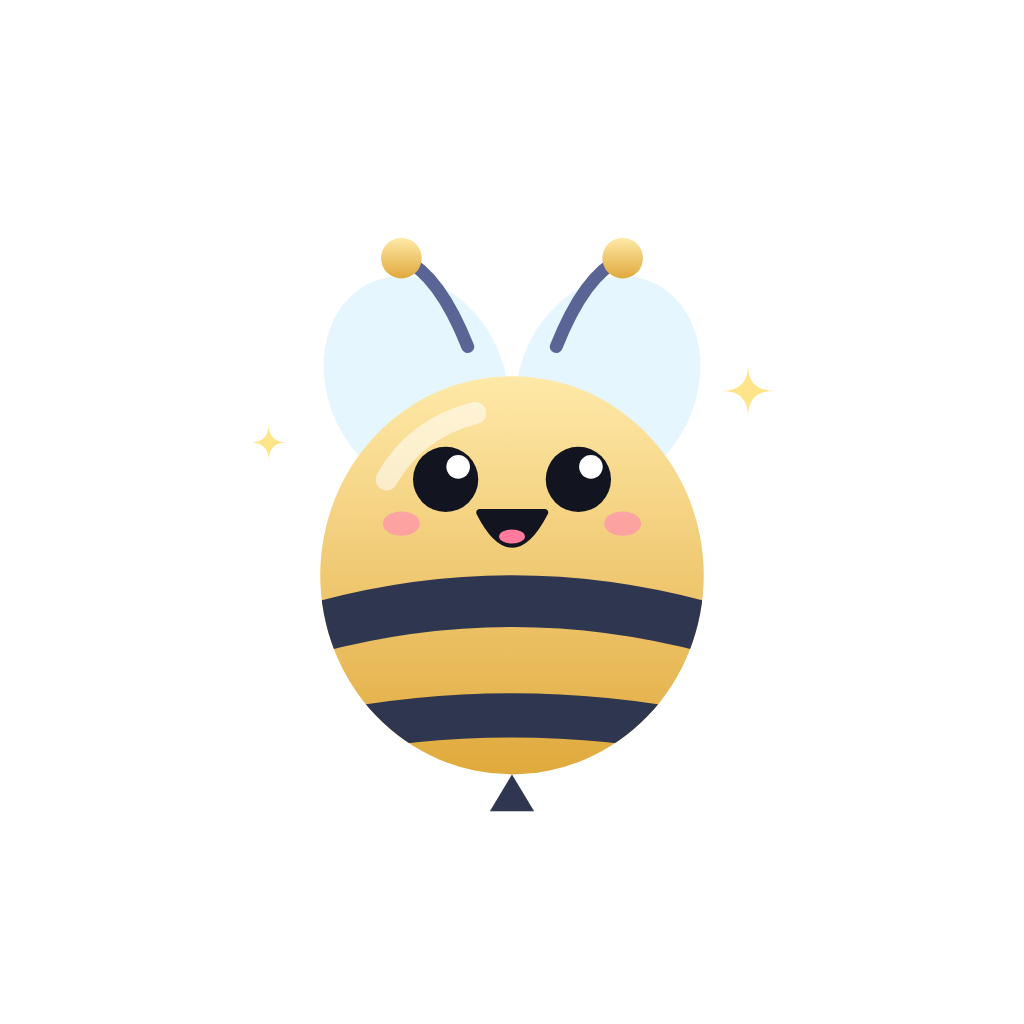
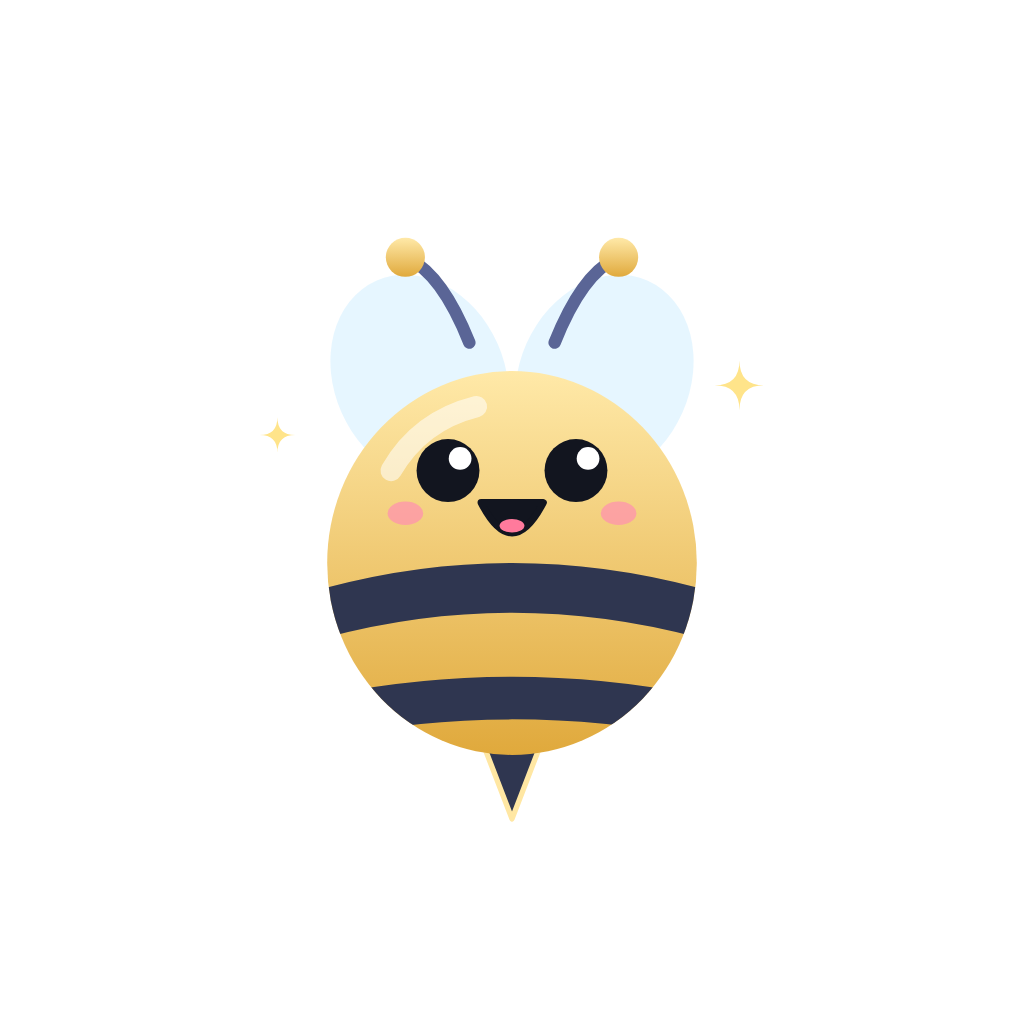
Picks of 1 Nov: level-up after all done, eager Bizzy, lucky ring, new stinger, profile wave spot
- 1A: when the last task of the day also levels you up, Bizzy's all-done
  moment (and a perfect-day card) plays first and the level-up follows.
- 2C: when Bizzy can evolve he glows gold, hops now and then and shows a
  "!" badge; the Evolve button pulses more strongly.
- 3A: the lucky meter is a gold ring that fills with every spin, the spins
  left in the middle, "to jackpot" next to it.
- 4A: the stinger is a clear cone pointing down from behind the body, with
  a thin light rim, in every form; the app icons are regenerated.
- 5B: on the profile Bizzy waves from beside the picture, away from the
  badge; his loop, pill and trophy animations stay.

Claude-Session: https://claude.ai/code/session_01MbaCg3u5W9LSttd2vTBsD6

diff --git a/src/components/StreakCard.tsx b/src/components/StreakCard.tsx
@@ -1,5 +1,6 @@
-import { useEffect, useRef, useState, type Ref } from 'react';
+import { useEffect, useRef, useState, type ReactNode, type Ref } from 'react';
 import { Pressable, Text, View, type HostInstance } from 'react-native';
+import Svg, { Circle, Defs, RadialGradient, Stop } from 'react-native-svg';
 import Animated, { Easing, FadeIn, FadeOut, LinearTransition, useAnimatedStyle, useReducedMotion, useSharedValue, withRepeat, withSequence, withTiming } from 'react-native-reanimated';
 import { nextBizzyForm, type BizzyMood } from '../bizzy';
 import type { Line, TalkContext } from '../bizzyTalk';
@@ -108,7 +109,9 @@ export function StreakCard({
           {bizzy && (
             <View style={s.corner}>
               <View ref={bizzy.spotRef} style={{ opacity: bizzy.away ? 0 : 1 }}>
-                <TapBizzy mood={bizzy.mood} cheer={bizzy.cheer} size={68} look={[-2, 1]} talk={bizzy.talk} onSay={say} taps={bizzy.taps} onTap={bizzy.onTap} />
+                <Eager on={canEvolve(bizzy.form, bizzy.level)}>
+                  <TapBizzy mood={bizzy.mood} cheer={bizzy.cheer} size={68} look={[-2, 1]} talk={bizzy.talk} onSay={say} taps={bizzy.taps} onTap={bizzy.onTap} />
+                </Eager>
               </View>
               <EvolveNext form={bizzy.form} level={bizzy.level} onEvolve={bizzy.onEvolve} />
             </View>
@@ -148,7 +151,57 @@ export function StreakCard({
   );
 }
 
-/** Under Bizzy: Evolve (gently pulsing) when his next form's level is reached, else the level it needs; nothing once he is the Queen. */
+function canEvolve(form: number, level: number): boolean {
+  const next = nextBizzyForm(form);
+  return !!next && level >= next.level;
+}
+
+/**
+ * Bizzy can't wait to evolve (picked 2026-11-01, 2C): he glows gold and hops now and
+ * then, with a "!" badge, while the Evolve button under him pulses.
+ */
+function Eager({ on, children }: { on: boolean; children: ReactNode }) {
+  const s = useStyles(makeStyles);
+  const reduce = useReducedMotion();
+  const hop = useSharedValue(0);
+  const beat = useSharedValue(0);
+  useEffect(() => {
+    if (!on || reduce) {
+      hop.value = withTiming(0, { duration: 200 });
+      beat.value = 0;
+      return;
+    }
+    hop.value = withRepeat(withSequence(withTiming(1, { duration: 260, easing: Easing.out(Easing.quad) }), withTiming(0, { duration: 260, easing: Easing.in(Easing.quad) }), withTiming(0, { duration: 900 })), -1);
+    beat.value = withRepeat(withSequence(withTiming(1, { duration: 700, easing: Easing.inOut(Easing.sin) }), withTiming(0, { duration: 700, easing: Easing.inOut(Easing.sin) })), -1);
+  }, [on, reduce]);
+  const hopStyle = useAnimatedStyle(() => ({ transform: [{ translateY: -10 * hop.value }, { rotate: `${-6 * hop.value}deg` }] }));
+  const glowStyle = useAnimatedStyle(() => ({ opacity: 0.55 + 0.45 * beat.value, transform: [{ scale: 0.9 + 0.15 * beat.value }] }));
+  const badgeStyle = useAnimatedStyle(() => ({ transform: [{ scale: 1 + 0.25 * beat.value }] }));
+  if (!on) return <>{children}</>;
+  return (
+    <View>
+      <Animated.View pointerEvents="none" style={[s.eagerGlow, glowStyle]}>
+        {/* A soft gold light behind him, fading out to nothing. */}
+        <Svg width="100%" height="100%" viewBox="0 0 100 100">
+          <Defs>
+            <RadialGradient id="eagerGlow" cx="50" cy="62" r="40" gradientUnits="userSpaceOnUse">
+              <Stop offset="0" stopColor="#FFE48A" stopOpacity={0.85} />
+              <Stop offset="0.45" stopColor="#FFC94D" stopOpacity={0.35} />
+              <Stop offset="1" stopColor="#FFC94D" stopOpacity={0} />
+            </RadialGradient>
+          </Defs>
+          <Circle cx={50} cy={62} r={40} fill="url(#eagerGlow)" />
+        </Svg>
+      </Animated.View>
+      <Animated.View style={hopStyle}>{children}</Animated.View>
+      <Animated.View pointerEvents="none" style={[s.eagerBadge, badgeStyle]}>
+        <Text style={s.eagerBang}>!</Text>
+      </Animated.View>
+    </View>
+  );
+}
+
+/** Under Bizzy: Evolve (pulsing, with a gold ring on each beat) when his next form's level is reached, else the level it needs; nothing once he is the Queen. */
 function EvolveNext({ form, level, onEvolve }: { form: number; level: number; onEvolve: () => void }) {
   const s = useStyles(makeStyles);
   const next = nextBizzyForm(form);
@@ -158,7 +211,7 @@ function EvolveNext({ form, level, onEvolve }: { form: number; level: number; on
   useEffect(() => {
     pulse.value = ready && !reduce ? withRepeat(withSequence(withTiming(1, { duration: 700, easing: Easing.inOut(Easing.sin) }), withTiming(0, { duration: 700, easing: Easing.inOut(Easing.sin) })), -1) : 0;
   }, [ready, reduce]);
-  const style = useAnimatedStyle(() => ({ transform: [{ scale: 1 + 0.06 * pulse.value }], boxShadow: `0px 0px ${4 + 8 * pulse.value}px rgba(255,201,77,${0.35 + 0.35 * pulse.value})` }));
+  const style = useAnimatedStyle(() => ({ transform: [{ scale: 1 + 0.1 * pulse.value }], boxShadow: `0px 0px ${6 + 12 * pulse.value}px rgba(255,201,77,${0.45 + 0.45 * pulse.value})` }));
   if (!next) return <Text style={s.evolveWait}>{t('Fully grown')}</Text>;
   if (!ready) return <Text style={s.evolveWait}>{t('Reach level {n} to evolve', { n: next.level })}</Text>;
   return (
@@ -238,6 +291,9 @@ const makeStyles = themed((c) => ({
   card: { ...card(c), borderWidth: 0, borderRadius: c.radius, paddingVertical: 14, paddingHorizontal: 16, gap: 10 },
   row: { flexDirection: 'row', alignItems: 'center', gap: 12 },
   corner: { minWidth: 84, maxWidth: 104, alignItems: 'center', gap: 2 },
+  eagerGlow: { position: 'absolute', left: -6, right: -6, top: -6, bottom: -6 },
+  eagerBadge: { position: 'absolute', top: -2, right: -4, width: 20, height: 20, borderRadius: 10, backgroundColor: '#FFC94D', alignItems: 'center', justifyContent: 'center', borderWidth: 2, borderColor: c.surface },
+  eagerBang: { fontFamily: VIVID_HEAVY, fontSize: 12, lineHeight: 14, color: '#2A1A05' },
   // Honey gold, the same in every theme: evolving belongs to the rewards layer.
   evolve: { borderRadius: 999, backgroundColor: '#FFC94D', backgroundImage: 'linear-gradient(90deg, #FFE48A, #FFB347)' },
   evolveTap: { paddingHorizontal: 12, paddingVertical: 5 },

diff --git a/src/screens/SpinScreen.tsx b/src/screens/SpinScreen.tsx
@@ -371,12 +371,12 @@ export function SpinScreen({
                 onHoverIn={() => setLuckyTip(true)}
                 onHoverOut={() => setLuckyTip(false)}
                 hitSlop={8}
-                style={[s.chip, s.chipBottomRight]}
+                style={[s.chip, s.chipBottomRight, s.luckyChip]}
                 accessibilityRole="button"
                 accessibilityLabel={pity <= 1 ? t('Lucky meter: your next spin wins Fortuna for sure.') : t('Lucky meter: {n} spins left until Fortuna is guaranteed.', { n: pity })}
               >
-                <Star4 size={11} color={GOLD.mid} />
-                <Text style={s.chipText}>{pity <= 1 ? t('Jackpot next spin') : tn(pity, '{n} spin to jackpot', '{n} spins to jackpot')}</Text>
+                <LuckyRing left={pity} />
+                <Text style={s.luckyLabel}>{pity <= 1 ? t('next spin!') : t('to jackpot')}</Text>
               </Pressable>
             </>
           )}
@@ -1029,6 +1029,31 @@ function ThemePreview() {
   );
 }
 
+/**
+ * The lucky meter as a gold ring that fills with every spin, the spins left in
+ * the middle (picked 2026-11-01, 3A); a star once the next spin is the jackpot.
+ */
+function LuckyRing({ left }: { left: number }) {
+  const r = 14;
+  const round = 2 * Math.PI * r;
+  const filled = Math.min(1, Math.max(0, (PITY_SPINS - left) / PITY_SPINS));
+  return (
+    <View style={{ width: 34, height: 34, alignItems: 'center', justifyContent: 'center' }}>
+      <Svg width={34} height={34} viewBox="0 0 34 34" style={StyleSheet.absoluteFill}>
+        <Defs>
+          <LinearGradient id="luckyRing" x1="0" y1="0" x2="1" y2="1">
+            <Stop offset="0" stopColor={GOLD.bright} />
+            <Stop offset="1" stopColor={GOLD.mid} />
+          </LinearGradient>
+        </Defs>
+        <Circle cx={17} cy={17} r={r} stroke="rgba(255,255,255,0.12)" strokeWidth={3.5} fill="none" />
+        <Circle cx={17} cy={17} r={r} stroke="url(#luckyRing)" strokeWidth={3.5} fill="none" strokeLinecap="round" strokeDasharray={`${round * (left <= 1 ? 1 : filled)} ${round}`} transform="rotate(-90 17 17)" />
+      </Svg>
+      {left <= 1 ? <Star4 size={13} color={GOLD.bright} /> : <Text style={{ color: GOLD.bright, fontFamily: VIVID_HEAVY, fontSize: left >= 100 ? 10 : 12, fontVariant: ['tabular-nums'] }}>{left}</Text>}
+    </View>
+  );
+}
+
 const makeStyles = themed((c) => ({
   screen: { flex: 1, backgroundColor: c.bg },
   content: { paddingHorizontal: 20, paddingTop: 12, paddingBottom: 48, maxWidth: 640, width: '100%', alignSelf: 'center', alignItems: 'stretch' },
@@ -1042,6 +1067,8 @@ const makeStyles = themed((c) => ({
   chipTopRight: { right: 0, top: 0 },
   chipBottomLeft: { left: 0, bottom: 0 },
   chipBottomRight: { right: 0, bottom: 0 },
+  luckyChip: { height: 44, paddingLeft: 5, paddingRight: 11, borderRadius: 22, gap: 7 },
+  luckyLabel: { ...eyebrow(c, 10), color: c.muted, fontWeight: '800' },
   luckyTip: { position: 'absolute', right: 0, bottom: 38, maxWidth: 220, padding: 10, borderRadius: 10, backgroundColor: c.surface, borderWidth: 1, borderColor: c.dark ? 'rgba(242,197,92,0.45)' : c.border, zIndex: 5, boxShadow: '0px 6px 18px rgba(0,0,0,0.35)' },
   luckyTipText: { color: c.text, fontSize: 12, lineHeight: 16 },
   chipText: { color: c.text, fontSize: 12, fontWeight: '800', fontVariant: ['tabular-nums'] },

diff --git a/App.tsx b/App.tsx
@@ -211,6 +211,23 @@ function Succedo() {
   const [comboShown, setComboShown] = useState({ count: 0, play: 0 });
   /** A level-up or moment pop-up is open or waiting; the review pop-up never shows on top of one. */
   const celebrationOpen = useRef(false);
+  /** Today plays a big moment (all done, morning hello); a level-up waits for it to end. */
+  const todayBusy = useRef(false);
+  const heldLevelUp = useRef<(() => void) | null>(null);
+  /** The level-up that waited comes in once Today's moment and any pop-ups before it (a perfect day) are done. */
+  const momentsOpen = useRef(false);
+  momentsOpen.current = moments.length > 0;
+  function releaseLevelUp() {
+    setTimeout(() => {
+      const show = heldLevelUp.current;
+      if (!show || todayBusy.current || momentsOpen.current) return;
+      heldLevelUp.current = null;
+      show();
+    }, 350);
+  }
+  useEffect(() => {
+    if (!moments.length) releaseLevelUp();
+  }, [moments.length]);
   celebrationOpen.current = !!celebration || moments.length > 0;
   const bestLevel = useRef<number | null>(null);
   // Theme whose fonts are loaded and which is on screen; a newly picked theme
@@ -506,15 +523,17 @@ function Succedo() {
       const from = bestLevel.current;
       bestLevel.current = after.level;
       const milestone = LEVEL_MILESTONES.filter((m) => m.level > from && m.level <= after.level).at(-1);
-      // After the XP bar has run to the end.
-      setTimeout(
-        () => {
-          setCelebration({ level: after.level, rank: after.rank, newRank: after.rank !== before.rank, milestone });
-          buzz('levelUp');
-          sound('levelUp');
-        },
-        900,
-      );
+      const show = () => {
+        setCelebration({ level: after.level, rank: after.rank, newRank: after.rank !== before.rank, milestone });
+        buzz('levelUp');
+        sound('levelUp');
+      };
+      // After the XP bar has run to the end. If that tick also finished the day, Bizzy's
+      // all-done moment plays first and the level-up follows it (picked 2026-11-01, 1A).
+      setTimeout(() => {
+        if (todayBusy.current || momentsOpen.current) heldLevelUp.current = show;
+        else show();
+      }, 900);
     }
     return gained;
   }
@@ -882,6 +901,10 @@ function Succedo() {
                   streak={streakInfo}
                   multiplier={multiplier}
                   onOpenStreak={() => setLevelOpen(true)}
+                  onMoment={(busy) => {
+                    todayBusy.current = busy;
+                    if (!busy) releaseLevelUp();
+                  }}
                   onEvolve={() => {
                     const next = evolveBizzy(state);
                     if (next === state) return;

diff --git a/src/components/ProfileBizzy.tsx b/src/components/ProfileBizzy.tsx
@@ -21,11 +21,19 @@ type Spot = { x: number; y: number; w: number; h: number };
 const SIZE = 52;
 
 /**
+ * Where he waves from: beside the picture on the left, level with its upper part, away
+ * from the badge on the top right (picked 2026-11-01, 5B; on top he was small and half hidden).
+ */
+function waveSpot(f: Spot): Pt {
+  return [f.x - SIZE / 2 + 2, f.y + f.h * 0.28];
+}
+
+/**
  * Bizzy on the profile (picked 2026-10-29: ideas A, C and E, taking turns):
- * A flies round the picture, passing behind and in front, and waves from on
- * top; C leans on the level pill, swings, dozes off and jolts awake; E polishes
+ * A flies round the picture, passing behind and in front, and waves from the
+ * left of the picture; C leans on the level pill, swings, dozes off and jolts awake; E polishes
  * the pinned trophies one by one. Between them he flies over to the next spot
- * instead of jumping. With less motion he just sits on top of the picture.
+ * instead of jumping. With less motion he just sits beside the picture.
  * Rendered inside `root`, next to the picture (which has zIndex 2).
  */
 export function ProfileBizzy({ root, frame, pill, trophies }: { root: RefObject<HostInstance | null>; frame: RefObject<HostInstance | null>; pill: RefObject<HostInstance | null>; trophies: RefObject<(HostInstance | null)[]> }) {
@@ -60,10 +68,13 @@ export function ProfileBizzy({ root, frame, pill, trophies }: { root: RefObject<
     const start: Pt = [c[0] + rx, c[1]];
     await goTo(start);
     if (!alive.current) return;
-    // Two slow loops (passing behind on the far side), then up on top to wave.
+    // Two slow loops (passing behind on the far side), then over to his spot beside the picture to wave.
     await flyer.fly([...ellipse(c, rx, ry), ...ellipse(c, rx, ry)], 8400, { easing: Easing.linear });
     if (!alive.current) return;
-    await flyer.fly([[start, [start[0] + 2, c[1] - 54], [c[0] + 20, f.y - 30], [c[0], f.y - 14]]], 600);
+    // Across in front of the picture (dipping below it), then up to his spot.
+    const spot = waveSpot(f);
+    await flyer.fly([[start, [start[0], f.y + f.h + 30], [spot[0], f.y + f.h + 30], spot]], 900);
+    if (!alive.current) return;
     flyer.setMood('wave');
     flyer.setFast(false);
     await wait(1800);
@@ -106,8 +117,8 @@ export function ProfileBizzy({ root, frame, pill, trophies }: { root: RefObject<
   async function run() {
     const f = await where(frame.current);
     if (!f || !alive.current) return;
-    const top: Pt = [f.x + f.w / 2, f.y - 14];
-    flyer.place(top[0], top[1]);
+    const home = waveSpot(f);
+    flyer.place(home[0], home[1]);
     if (reduce) return;
     flyer.setMood('wave');
     await wait(1500);

diff --git a/src/bizzy.ts b/src/bizzy.ts
@@ -281,13 +281,15 @@ export function bizzySvg(
     feelers +
     cape +
     (outfit?.back ?? '') +
+    // The stinger (picked 2026-11-01, 4A): a clear cone pointing down from behind the body,
+    // with a thin light rim so it doesn't melt into the shadow.
+    `<path d="M90 168 Q100 177 110 168 L100 194Z" fill="${NAVY}" stroke="#FFE7A3" stroke-width="1.5" stroke-linejoin="round"/>` +
     `<ellipse cx="100" cy="122" rx="52" ry="54" fill="url(#${g})"/>` +
     stripes +
     `<path d="M66 96 Q74 82 90 78" fill="none" stroke="#fff" stroke-width="6" stroke-linecap="round" opacity=".55"/>` +
     (f.extra && !covers.head ? EXTRA[f.extra] : '') +
     (f.extra === 'honey' && !covers.neck ? HONEY_BADGE : '') +
     face(mood, look, blink) +
-    `<path d="M100 176 L94 186 L106 186Z" fill="${NAVY}"/>` +
     (mood === 'wave' ? waveArms() : '') +
     (outfit?.front ?? '');
   // Honeyguard glows amber, the Queen violet.
@@ -298,7 +300,7 @@ export function bizzySvg(
     (glow ? `<radialGradient id="bza${f.n}"><stop offset="0" stop-color="${glow[0]}" stop-opacity=".45"/><stop offset="1" stop-color="${glow[0]}" stop-opacity="0"/></radialGradient>` : '') +
     `<clipPath id="${c}"><ellipse cx="100" cy="122" rx="52" ry="54"/></clipPath></defs>` +
     (glow ? `<circle cx="100" cy="${glow[2]}" r="${glow[1]}" fill="url(#bza${f.n})"/>` : '') +
-    (shadow ? `<ellipse cx="100" cy="186" rx="${r1(42 * Math.max(f.k, 0.7))}" ry="7" fill="#000" opacity=".3"/>` : '') +
+    (shadow ? `<ellipse cx="100" cy="192" rx="${r1(42 * Math.max(f.k, 0.7))}" ry="7" fill="#000" opacity=".3"/>` : '') +
     (at ? `<g transform="${at}">${body}</g>` : body) +
     (f.n >= 9 ? sparkle(30, 140, 6) + sparkle(172, 128, 5) + sparkle(160, 40, 4, SOFT) : '') +
     `</svg>`

diff --git a/src/i18n.de.ts b/src/i18n.de.ts
@@ -1087,9 +1087,6 @@ export const DE: Record<string, string> = {
   "3. Find Succedo": "3. Succedo suchen",
   "4. Drag me onto your screen": "4. Mich auf den Bildschirm ziehen",
   "Next": "Weiter",
-  "Jackpot next spin": "Jackpot beim nächsten Dreh",
-  "{n} spin to jackpot": "{n} Dreh bis zum Jackpot",
-  "{n} spins to jackpot": "{n} Drehs bis zum Jackpot",
   "Quote of the day on opening": "Zitat des Tages beim Öffnen",
   "Bizzy shows a quote on your first open of the day. Tap it to start.": "Bizzy zeigt beim ersten Öffnen am Tag ein Zitat. Tippe darauf, um zu starten.",
   "Tap to start": "Tippen zum Starten",
@@ -1109,4 +1106,6 @@ export const DE: Record<string, string> = {
   "Changed your mind?": "Doch nicht?",
   "Swipe this one to the left and tap Remove. On a computer, press and hold it.": "Wisch diese nach links und tippe auf Entfernen. Am Computer: gedrückt halten.",
   "Remove it first": "Erst entfernen",
+  "to jackpot": "bis Jackpot",
+  "next spin!": "nächster Dreh!",
 };

diff --git a/src/screens/TodayScreen.tsx b/src/screens/TodayScreen.tsx
@@ -60,6 +60,7 @@ export function TodayScreen({
   streak,
   multiplier,
   onOpenStreak,
+  onMoment,
   onEvolve,
   onTapBizzy,
   tokenStrip,
@@ -87,6 +88,8 @@ export function TodayScreen({
   streak: StreakStatus;
   multiplier: ReturnType<typeof xpMultiplier>;
   onOpenStreak: () => void;
+  /** A big moment (morning hello, all done) starts or ends; a level-up waits for it (picked 2026-11-01, 1A). */
+  onMoment?: (busy: boolean) => void;
   /** Bizzy evolves into his next form (only offered once the level allows it). */
   onEvolve: () => void;
   onTapBizzy: () => void;
@@ -260,6 +263,7 @@ export function TodayScreen({
   useTourScroller(scrollTo);
   const spot = useRef<HostInstance>(null);
   const [moment, setMoment] = useState<TodayMomentKind | null>(null);
+  useEffect(() => onMoment?.(!!moment), [!!moment]);
   const [says, setSays] = useState<{ text: string; id: number }>();
   const [landed, setLanded] = useState(false);
   const play = (kind: TodayMomentKind, line: string) => {

diff --git a/scripts/make-bizzy-icons.ts b/scripts/make-bizzy-icons.ts
@@ -7,8 +7,8 @@ import { bizzySvg } from '../src/bizzy.ts';
 
 const OUT = new URL('../assets/brand/', import.meta.url).pathname;
 
-/** Bizzy's drawing (200 × 200) cropped close round him: feelers to sting. */
-const CROP = '20 30 160 160';
+/** Bizzy's drawing (200 × 200) cropped close round him: feelers to the tip of his sting. */
+const CROP = '17 30 166 166';
 
 function bee(x: number, y: number, size: number, silhouette = false): string {
   const inner = bizzySvg('excited', false, { form: 5 })
